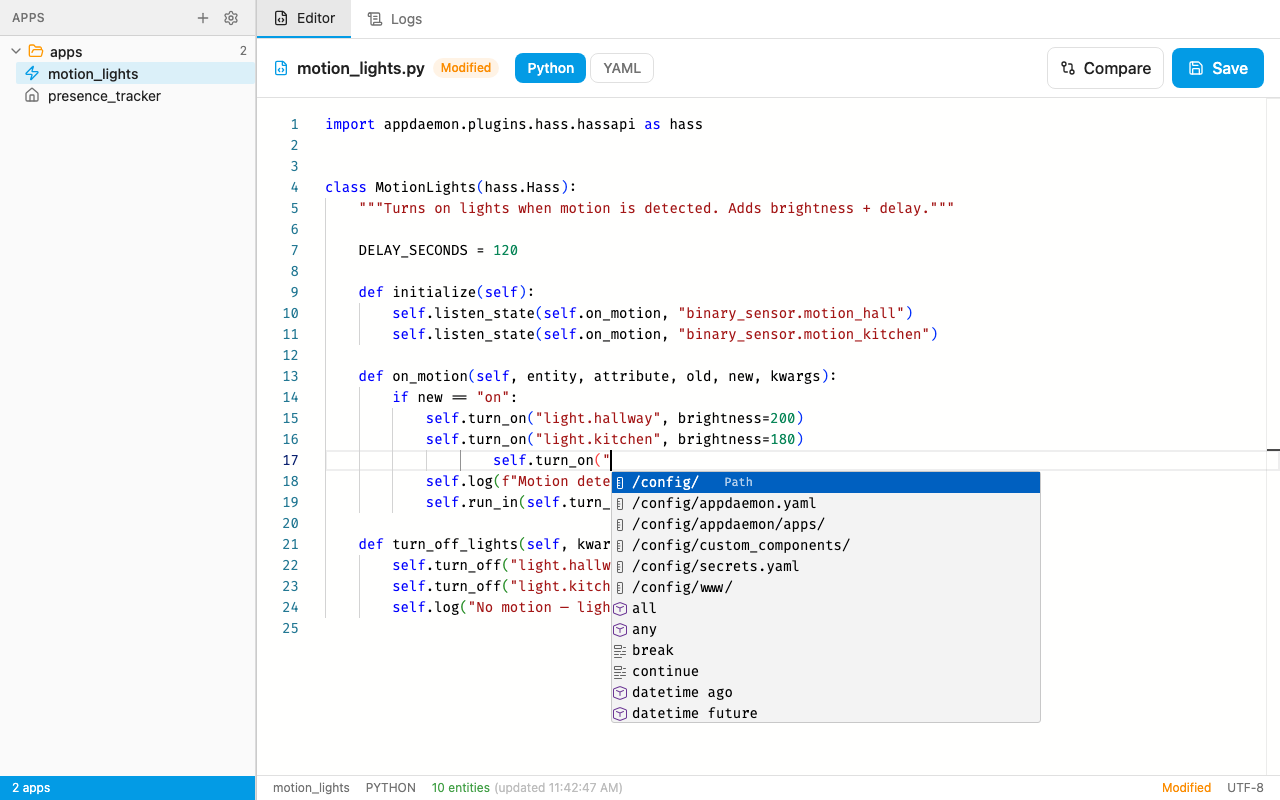
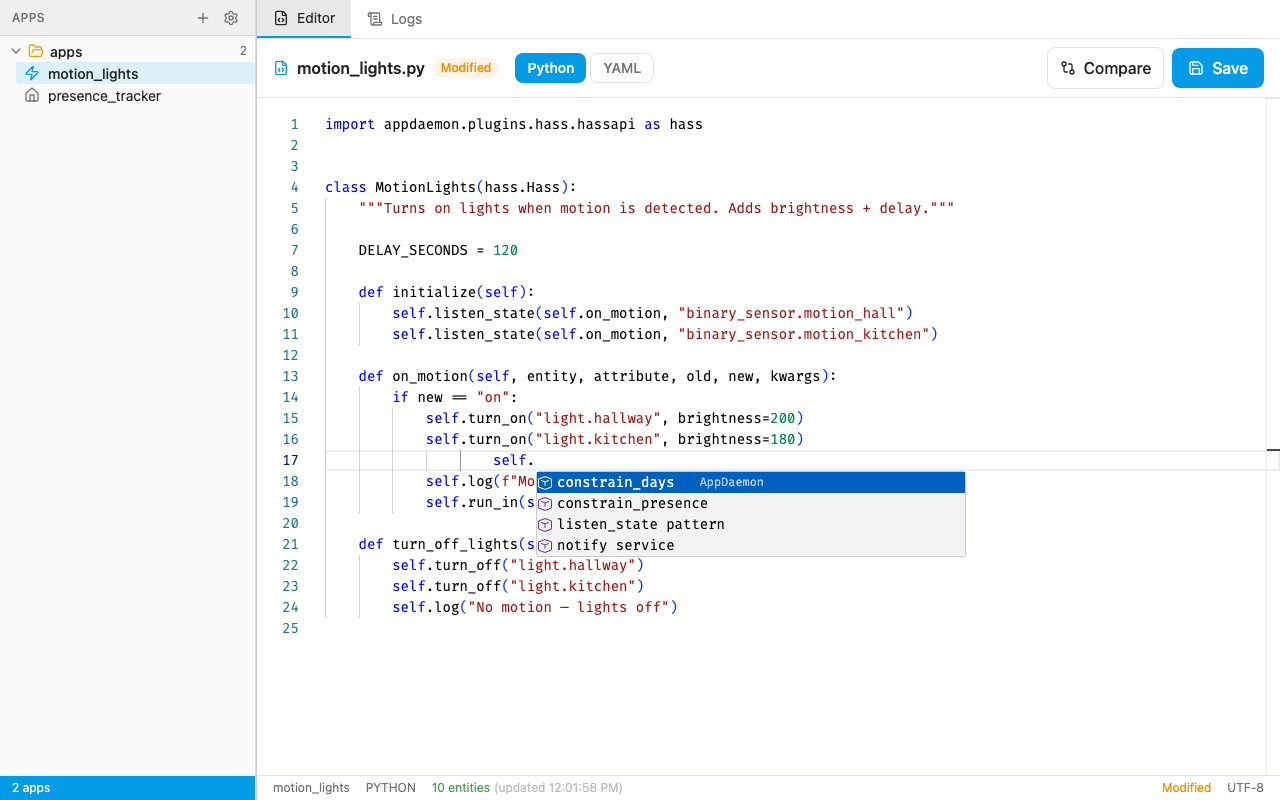
fix: autocomplete disappears after typing past self. dot
isAfterSelf only matched when . was the last character, so suggestions
vanished the moment the user typed the first letter of a method name.
Also the insertion range only subtracted 5 (for 'self.') without
accounting for chars already typed after the dot, causing duplicate text.

- Use /self\.(\w*)$/ to match self. + any partial word
- Subtract selfPartialWord.length from startColumn to cover full typed text
- Add filterText (method name without 'self.') so Monaco filters correctly

Changed region(s): [[0.4062, 0.5625, 0.6562, 0.9062], [0.75, 0.5625, 0.8125, 0.625], [0.4375, 0.9688, 0.4688, 1.0]]

diff --git a/src/app/components/Editor.tsx b/src/app/components/Editor.tsx
@@ -55,14 +55,17 @@ export function Editor({ appName, settings }: EditorProps) {
         const wordUntilPosition = model.getWordUntilPosition(position);
         
         const textBeforeCursor = lineContent.substring(0, position.column - 1);
-        const isAfterSelf = /self\.$/.test(textBeforeCursor);
+        // Match self. followed by any partial word (e.g. "self.", "self.turn", "self.turn_on")
+        const selfDotMatch = /self\.(\w*)$/.exec(textBeforeCursor);
+        const isAfterSelf = selfDotMatch !== null;
+        const selfPartialWord = selfDotMatch?.[1] ?? '';
         const isEmptyLine = /^\s*$/.test(textBeforeCursor);
         const isStartingKeyword = /\b(impo|from|clas|def|if|for|whil|try)\b/.test(textBeforeCursor);
-        const isAfterDot = /\.$/.test(textBeforeCursor);
-        
+        const isAfterDot = !isAfterSelf && /\.$/.test(textBeforeCursor);
+
         // Get all completions
         const allCompletions = createAppDaemonCompletions();
-        
+
         // Convert to Monaco suggestions with proper range
         const createSuggestions = (items: typeof allCompletions) => {
           return items.map(item => ({
@@ -72,11 +75,17 @@ export function Editor({ appName, settings }: EditorProps) {
             insertTextRules: monaco.languages.CompletionItemInsertTextRule.InsertAsSnippet,
             documentation: item.documentation,
             detail: item.detail,
+            // filterText strips the "self." prefix so Monaco matches against what
+            // the user types AFTER the dot (e.g. "turn" matches "turn_on")
+            filterText: isAfterSelf && item.label.startsWith('self.')
+              ? item.label.slice(5)
+              : item.label,
             range: {
               startLineNumber: position.lineNumber,
               endLineNumber: position.lineNumber,
-              startColumn: isAfterSelf && item.label.startsWith('self.') 
-                ? position.column - 5 
+              // Cover "self." + any partial word already typed
+              startColumn: isAfterSelf && item.label.startsWith('self.')
+                ? position.column - 5 - selfPartialWord.length
                 : wordUntilPosition.startColumn,
               endColumn: position.column,
             },
